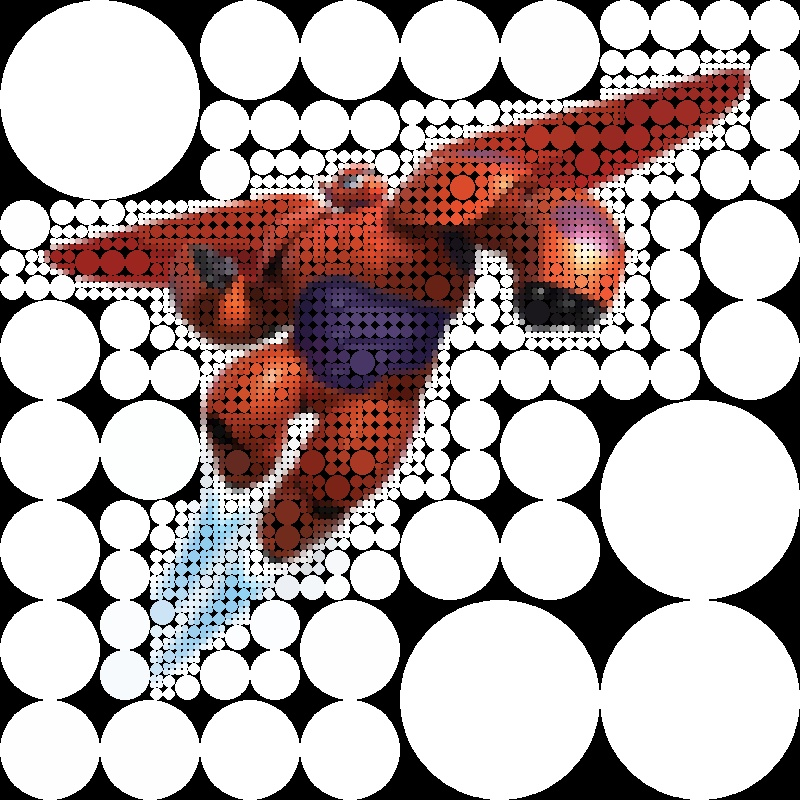
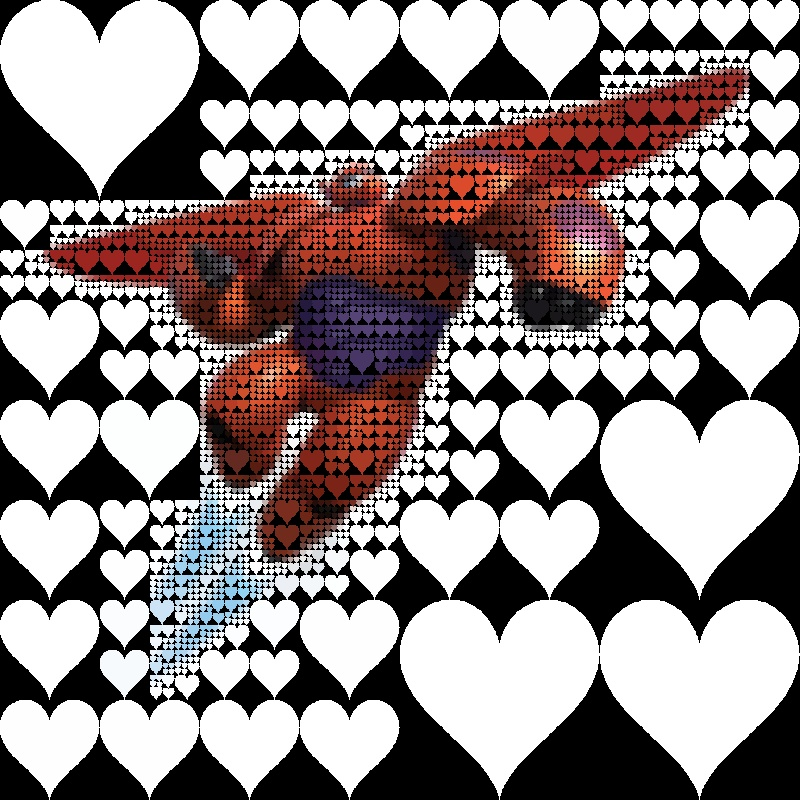
add the right image

diff --git a/README.md b/README.md
@@ -5,4 +5,4 @@
 
 ![Style Ellipse](./docs/images/ellipse_image.jpg )
 
-![Style Ellipse](./docs/images/heartshape_image.jpg )
+![Style Heartshape](./docs/images/heartshape_image.jpg )
